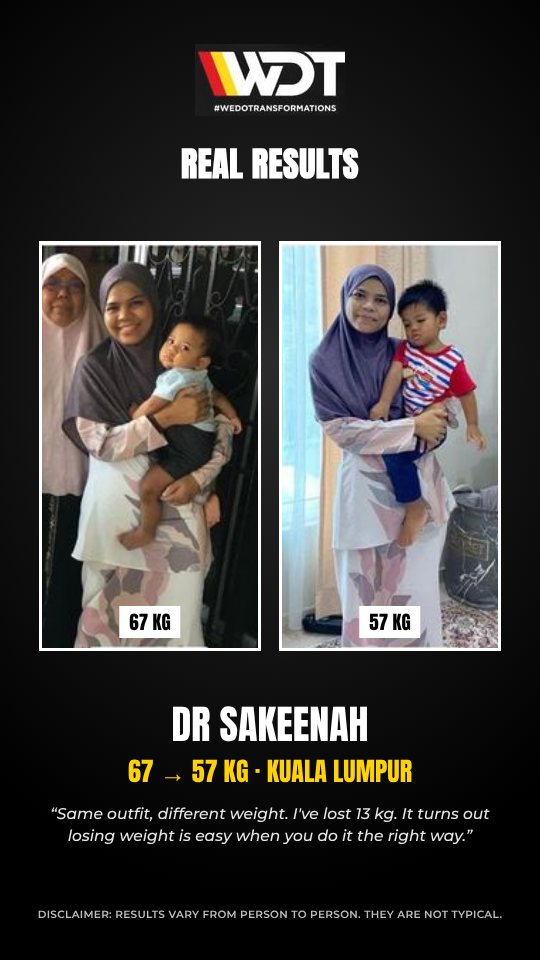
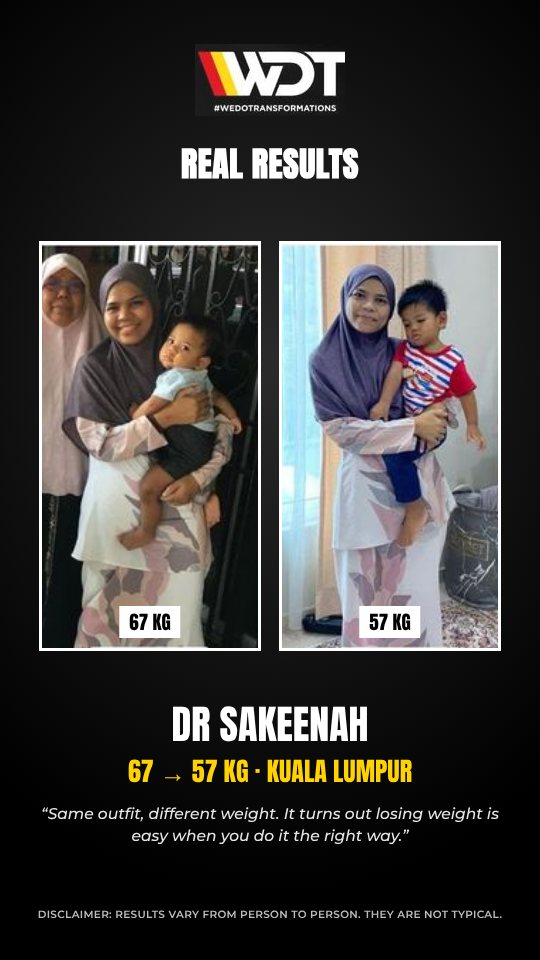
Kimi's answers: body assessment note + FAQ, what RM259 includes, 4 overseas posters with a label, Dr Sakeenah quote matches 67-57 kg, meal plan WhatsApp follow-up button, side-income link off the footer for now
Claude-Session: https://claude.ai/code/session_01V6y6QRNPJFxGjVSPrroyLb

Changed region(s): [[0.0889, 0.8438, 0.9185, 0.875]]

diff --git a/index.html b/index.html
@@ -339,6 +339,7 @@
       <div class="ticks-hero" data-t="heroTicks"></div>
       <div class="hero-ctas">
         <a class="big assess" target="_blank" rel="noopener"><span data-t="assessBtn"></span></a>
+        <p class="price-s" data-t="assessNote" style="opacity:.9;font-size:14px;margin-top:0;flex-basis:100%"></p>
         <a class="quiz-link" href="#kit" data-t="heroQuizLink"></a>
       </div>
       <p class="price-s" data-t="priceLine"></p>
@@ -478,6 +479,7 @@
           <a class="btn" id="c-pdf" target="_blank" rel="noopener"><span id="c-pdfBtn"></span></a>
           <p class="c-inapp" id="c-inapp" data-t="calInApp" hidden></p>
           <a class="c-rem" id="c-rem" target="_blank" rel="noopener" data-t="calRem"></a>
+          <a class="btn wa" id="c-wa" target="_blank" rel="noopener" style="font-size:15px;padding:13px 16px"></a>
           <p class="c-start" data-t="calStart"></p>
           <h3 class="c-h" data-t="calKitH"></h3>
           <ul class="c-kit" data-t="calKit"></ul>
@@ -600,7 +602,6 @@
     </div>
     <div class="links">
       <a id="web-foot" target="_blank" rel="noopener" data-t="webFoot"></a>
-      <a href="peluang.html" data-t="incomeFoot"></a>
     </div>
     <p class="fine" data-t="footFine"></p>
   </div>
@@ -626,12 +627,12 @@ const SRC = ((new URLSearchParams(location.search).get("src") || "").toLowerCase
    { id:"aina", name:"Aina, Gombak", result:"-4 kg", months:{en:"2 months",ms:"2 bulan"}, photo:"aina.jpg",
      quote:{en:"...", ms:"..."} } */
 // WDT team posters in img/wdt/NN.jpg (client name for the alt text)
-const WDT_RESULTS = [[1,"Sandra Saucedo"],[2,"Hernan Brito"],[3,"Sanjay Abraham"],[4,"Emilia Negru"],[5,"Ivaylo Hristov"],[6,"Andres Contreras"],[7,"Karina Ortiz"],[8,"Sturzu Constantin Daniel"],
-  [9,"Mihalcea Cornelia"],[10,"Rachel Romero"],[11,"Jazmine Fabro"],[12,"Denise Preston"],[13,"Rossi Perez"],[14,"Takeshi Taco"],[15,"Maria Ramirez Ramirez"],[16,"Everline Hoffmann"]];
+// overseas WDT coaches' 21-Day Challenge posters, shown after the Malaysian results (Kimi 13 Nov: keep 3-4)
+const WDT_RESULTS = [[9,"Mihalcea Cornelia"],[10,"Rachel Romero"],[16,"Everline Hoffmann"],[2,"Hernan Brito"]];
 
 const TESTIMONIALS = [
   { id:"sakeenah", name:"Dr Sakeenah, Kuala Lumpur", result:"67 → 57 kg", photo:"img/t-sakeenah.jpg",
-    quote:{ms:"Baju yang sama, berat yang berbeza. Saya dah turun 13 kg. Rupanya mudah turun berat dengan cara yang betul.",en:"Same outfit, different weight. I've lost 13 kg. It turns out losing weight is easy when you do it the right way."} },
+    quote:{ms:"Baju yang sama, berat yang berbeza. Rupanya mudah turun berat dengan cara yang betul.",en:"Same outfit, different weight. It turns out losing weight is easy when you do it the right way."} },
   { id:"eka", name:"Eka, Johor Bahru", result:"75 → 54 kg", photo:"img/t-eka.jpg",
     quote:{ms:"Saya turun 21 kg sambil makan nasi, brownies dan makan sedap.",en:"I lost 21 kg while still eating rice, brownies and good food."} },
   { id:"nurse", name:{ms:"Klien team",en:"Team client"}, result:"68 → 57 kg", months:{ms:"Okt 2024 → Sept 2025",en:"Oct 2024 → Sept 2025"}, photo:"img/t-nurse.jpg" },
@@ -680,6 +681,7 @@ const TXT = {
     h7L:["Waist","Ticks","Energy","Night hunger","Name","Plan"],
     resKalori:"Not ready to chat yet? Get the free meal plan first →",
     calRem:"📅 Set a Day 7 reminder in my calendar",
+    calWa:"💬 Want a coach to follow up for 7 days? WhatsApp %C →", calWaMsg:"Hi %C! I just got the free ~%K kcal meal plan (%G). Can you follow up with me for the next 7 days?", calWaG:["lose fat","gain weight"],
     calStart:"<b>Start today:</b> measure your waist (morning, before eating, at belly-button level) and write it on page 8. Measure again on Day 7.",
     calInApp:'Opened from TikTok/Instagram? If the PDF doesn\'t open, tap ⋯ at the top and choose "Open in browser".',
     calNextP2:"Your quiz result is ready. Pick a coach and WhatsApp for a free consultation.", calNextBtn2:"See my result →",
@@ -714,7 +716,7 @@ const TXT = {
     offLede:"Want online coaching from home, or a ladies-only class in person? Both work.",
     o1Tag:"Online · men &amp; women", o1H:"Online coaching",
     o1P:"For busy working adults who want a clear plan and a coach who checks in on them.",
-    o1List:"<li>1-to-1 and group coaching</li><li>Meal plan with normal food, including eating out</li><li>20-minute workouts you can do at home</li><li>A coach who follows up with you</li><li>Supplements included. Your plan is still built on normal food</li>",
+    o1List:"<li>1-to-1 and group coaching</li><li>Meal plan and workout plan built around your lifestyle</li><li>Normal food and eating out, 20-minute workouts at home</li><li>Accountability: a coach who keeps you on track</li><li>Supplements included. Your plan is still built on normal food</li>",
     investLabel:"Investment", o1Price:"From RM259 a month<small>supplements included</small>", o1Btn:"Start with the free body assessment →",
     o2Tag:"Ladies only · Coach Zara",
     o2P:"A small private workout class for women, max 12 per class, led by Coach Zara.",
@@ -725,6 +727,7 @@ const TXT = {
     investShort:"Programs start from RM259 a month, supplements included. Your coach will help you pick an option that fits your budget.",
     heroBtn:"Start the free quiz →",
     priceLine:"Programs start from RM259 a month, supplements included.",
+    assessNote:"Fill in a free form online, then Coach Kimi contacts you personally to explain your result. No pressure.",
     assessBtn:"Free Online Body Assessment →", heroQuizLink:"or try the free 7-Day Starter Kit (quiz + meal plan) ↓",
     waShort:"💬 WhatsApp us",
     stat1:"realistic first goal", stat2:"free quiz", stat3:"coaches, male and female",
@@ -749,19 +752,20 @@ const TXT = {
     zaraP1:"\"56 kg at 35 weeks pregnant, 47 kg 55 days after giving birth, by eating well and staying safely active.\"",
     zaraP2:"\"Prefer a female coach? I'm here.\"",
     coachNote:"Coaches' own journeys. Results vary from person to person.",
-    wdtH:"Results from our <em>coaching team</em>", wdtP:"Results from our clients and from the WeDoTransformations team of coaches. These are just some from this month, there are many more. Swipe to see them all →", wdtNote:"Results vary from person to person and are not typical.",
+    wdtH:"Results from our <em>coaching team</em>", wdtP:"The first 6 results are from Malaysia. The last 4 are 21-Day Challenge results from WeDoTransformations coaches overseas. Swipe to see them all →", wdtNote:"Results vary from person to person and are not typical.",
     testiEyebrow:"Real results",
     testiH:"Our team's clients",
     testiNote:"Results from clients of our coaching team. Results are not typical and vary from person to person.",
     webFoot:"Free online body assessment", incomeFoot:"Side income opportunity (in Malay)",
     faqH:"Questions people ask",
     faq:[
+      ["What is the free online body assessment?","You fill in a form online on the WeDoTransformations page (it opens in a new tab). Then Coach Kimi contacts you personally to explain where your body is now and what to fix first. It's free, and there's no pressure to join. Programs start from RM259 a month, supplements included."],
       ["Why start with 3 to 5 kg?","Because it's realistic. A small first goal is easier to reach while working full time, and once you see it happen it's much easier to keep going."],
       ["How long does it take to lose 3 to 5 kg?","It depends on your starting point and your routine. A healthy pace is usually around 0.5 to 1 kg a week. We'll give you an honest estimate on the call. Results vary."],
       ["I'm really busy. Do I need the gym?","No. The workouts are about 20 minutes and can be done at home."],
       ["Do I have to stop eating rice or eating out?","No. The plans are built around normal Malaysian food and eating out. You'll learn what to pick, not what to give up forever."],
       ["Can I have a female coach?","Yes. Coach Zara coaches women. Pick \"Female coach\" on your result page."],
-      ["How much does coaching cost?","Packages start from RM259 for one month, supplements included. There are longer, fuller packages too. On WhatsApp, your coach will help you pick the one that fits your goal and budget."],
+      ["How much does coaching cost?","Packages start from RM259 for one month. That includes supplements, 1-to-1 coaching, group coaching, accountability (a coach who keeps you on track), and a meal plan and workout plan built around your lifestyle. There are longer, fuller packages too. On WhatsApp, your coach will help you pick the one that fits your goal and budget."],
       ["I want to gain weight. Can you help?","Yes. In the <a href='#kalori'>calculator</a>, pick \"Gain weight\" for a free meal plan to gain weight without gaining excess fat (1,500-3,000 kcal). We coach weight gain too: programs start from RM259 a month, supplements included. Losing weight without trying? See a doctor first."],
       ["Are supplements part of the program?","Yes. Every online coaching package includes supplements at no extra cost. The RM259 package includes a nutrition shake, and bigger packages add more products. Your plan is still built on normal Malaysian food. Pregnant, breastfeeding, on medication or have a health condition? Tell your coach and check with your doctor first. Want to know what's in each package? Ask a coach on WhatsApp."]
     ],
@@ -847,6 +851,7 @@ const TXT = {
     h7L:["Pinggang","Tick","Tenaga","Lapar malam","Nama","Pelan"],
     resKalori:"Belum sedia nak chat? Ambil meal plan percuma dulu →",
     calRem:"📅 Set peringatan Hari 7 di kalendar",
+    calWa:"💬 Nak coach follow-up 7 hari? WhatsApp %C →", calWaMsg:"Hi %C! Saya baru ambil meal plan percuma ~%K kcal (%G). Boleh follow-up saya 7 hari ni?", calWaG:["turun lemak","naik berat"],
     calStart:"<b>Mula hari ni:</b> ukur pinggang (pagi, sebelum makan, paras pusat) dan tulis di muka surat 8. Hari 7 nanti ukur lagi.",
     calInApp:'Buka dari TikTok/Instagram? Kalau PDF tak keluar, tekan ⋯ di atas dan pilih "Buka dalam browser".',
     calNextP2:"Result kuiz anda dah siap. Pilih coach dan WhatsApp untuk consultation percuma.", calNextBtn2:"Lihat result saya →",
@@ -881,7 +886,7 @@ const TXT = {
     offLede:"Nak coaching online dari rumah, atau kelas wanita sahaja secara bersemuka? Dua-dua boleh.",
     o1Tag:"Online · lelaki &amp; wanita", o1H:"Coaching online",
     o1P:"Untuk orang bekerja yang sibuk dan nak pelan yang jelas, dengan coach yang follow-up.",
-    o1List:"<li>Coaching 1-1 dan berkumpulan</li><li>Meal plan makanan biasa, termasuk makan di luar</li><li>Senaman 20 minit, boleh buat di rumah</li><li>Coach yang follow-up anda</li><li>Supplement disertakan. Pelan anda tetap berasaskan makanan biasa</li>",
+    o1List:"<li>Coaching 1-1 dan berkumpulan</li><li>Meal plan dan workout plan ikut gaya hidup anda</li><li>Makanan biasa dan makan di luar, senaman 20 minit di rumah</li><li>Accountability: coach yang pantau progress anda</li><li>Supplement disertakan. Pelan anda tetap berasaskan makanan biasa</li>",
     investLabel:"Pelaburan", o1Price:"Dari RM259 sebulan<small>termasuk supplement</small>", o1Btn:"Mula dengan body assessment percuma →",
     o2Tag:"Wanita sahaja · Coach Zara",
     o2P:"Kelas senaman private untuk wanita, maksimum 12 orang sekelas, bersama Coach Zara.",
@@ -892,6 +897,7 @@ const TXT = {
     investShort:"Program bermula dari RM259 sebulan, termasuk supplement. Coach akan bantu pilih pakej ikut bajet anda.",
     heroBtn:"Mula kuiz percuma →",
     priceLine:"Program bermula dari RM259 sebulan, termasuk supplement.",
+    assessNote:"Isi borang online percuma, lepas tu Coach Kimi sendiri akan hubungi anda untuk terangkan result. Tiada paksaan.",
     assessBtn:"Online Body Assessment PERCUMA →", heroQuizLink:"atau cuba Kit Mula 7 Hari percuma (kuiz + meal plan) ↓",
     waShort:"💬 WhatsApp kami",
     stat1:"matlamat pertama yang realistik", stat2:"kuiz percuma", stat3:"coach, lelaki dan perempuan",
@@ -916,19 +922,20 @@ const TXT = {
     zaraP1:"\"56 kg masa mengandung 35 minggu, 47 kg 55 hari selepas bersalin, dengan makan betul dan aktif secara selamat.\"",
     zaraP2:"\"Lebih selesa dengan coach perempuan? Saya ada.\"",
     coachNote:"Perjalanan coach sendiri. Result berbeza mengikut individu.",
-    wdtH:"Result team <em>coach kami</em>", wdtP:"Result klien kami dan team coach WeDoTransformations. Ini sebahagian dari bulan ini sahaja, ada banyak lagi. Leret untuk tengok semua →", wdtNote:"Result berbeza mengikut individu dan tidak tipikal.",
+    wdtH:"Result team <em>coach kami</em>", wdtP:"6 result pertama dari Malaysia. 4 terakhir ialah result Cabaran 21 Hari dari coach WeDoTransformations di luar negara. Leret untuk tengok semua →", wdtNote:"Result berbeza mengikut individu dan tidak tipikal.",
     testiEyebrow:"Result sebenar",
     testiH:"Klien team kami",
     testiNote:"Result klien team coaching kami. Result tidak tipikal dan berbeza mengikut individu.",
     webFoot:"Online body assessment percuma", incomeFoot:"Peluang pendapatan sampingan",
     faqH:"Soalan yang selalu ditanya",
     faq:[
+      ["Apa itu online body assessment percuma?","Anda isi borang online di page WeDoTransformations (dibuka di tab baru). Lepas tu Coach Kimi sendiri akan hubungi anda untuk terangkan keadaan badan anda sekarang dan apa yang perlu dibaiki dulu. Percuma, dan tiada paksaan untuk join. Program bermula dari RM259 sebulan, termasuk supplement."],
       ["Kenapa mula dengan 3 hingga 5 kg?","Sebab ia realistik. Matlamat kecil lebih senang dicapai walaupun kerja sepenuh masa, dan bila dah nampak hasil, lebih senang nak teruskan."],
       ["Berapa lama nak turun 3 hingga 5 kg?","Bergantung pada titik mula dan rutin anda. Kadar yang sihat biasanya lebih kurang 0.5 hingga 1 kg seminggu. Kami bagi anggaran yang jujur dalam call nanti. Result berbeza mengikut individu."],
       ["Saya sangat sibuk. Kena pergi gym ke?","Tak perlu. Senaman lebih kurang 20 minit dan boleh buat di rumah."],
       ["Kena berhenti makan nasi atau makan di luar ke?","Tak perlu. Pelan dibina ikut makanan Malaysia biasa dan makan di luar. Anda belajar apa nak pilih, bukan apa nak tinggal selama-lamanya."],
       ["Boleh dapat coach perempuan?","Boleh. Coach Zara coach wanita. Pilih \"Coach perempuan\" di halaman result."],
-      ["Berapa kos coaching?","Pakej bermula dari RM259 untuk sebulan, termasuk supplement. Ada juga pakej yang lebih panjang dan lebih lengkap. Di WhatsApp, coach akan bantu pilih pakej yang sesuai dengan matlamat dan bajet anda."],
+      ["Berapa kos coaching?","Pakej bermula dari RM259 untuk sebulan. Termasuk supplement, coaching 1-1, coaching berkumpulan, accountability (coach pantau progress anda), dan meal plan serta workout plan ikut gaya hidup anda. Ada juga pakej yang lebih panjang dan lebih lengkap. Di WhatsApp, coach akan bantu pilih pakej yang sesuai dengan matlamat dan bajet anda."],
       ["Saya nak naik berat. Boleh tolong?","Boleh. Dalam <a href='#kalori'>kalkulator</a>, pilih \"Naik berat\" untuk meal plan percuma naik berat tanpa naik lemak berlebihan (1,500-3,000 kcal). Kami juga ada coaching naik berat: program bermula dari RM259 sebulan, termasuk supplement. Berat turun tanpa sebab? Jumpa doktor dulu."],
       ["Program ni ada supplement ke?","Ada. Harga setiap pakej coaching online dah termasuk supplement, tiada caj tambahan. Pakej RM259 termasuk shake nutrisi, dan pakej lebih besar ada produk tambahan. Pelan anda tetap berasaskan makanan Malaysia biasa. Mengandung, menyusu, ambil ubat atau ada masalah kesihatan? Beritahu coach dan tanya doktor dulu. Nak tahu apa dalam setiap pakej? Tanya coach di WhatsApp."]
     ],
@@ -1326,6 +1333,11 @@ function runCalc(){
   $("c-inapp").hidden = !/TikTok|musical_ly|Bytedance|Instagram|FBAN|FBAV/i.test(navigator.userAgent);
   $("c-pdf").onclick = gain ? ()=>logTap({type:"quiz", via:"Weight gain PDF", src:SRC, result:tier+" kcal"})
     : ()=>{ kitSave({p:tier}); kitMark("m"); logTap({type:"quiz", via:"Meal plan PDF", src:SRC, result:tier+" kcal"}); };
+  // coach follow-up: the coach picked in the quiz, else by the sex entered here
+  const cw = CONFIG.coaches[coach || kitGet().c || calc.sex] || CONFIG.coaches.m, fill = t => t.replace("%C", cw.name).replace("%K", (+tier).toLocaleString()).replace("%G", T.calWaG[gain ? 1 : 0]);
+  $("c-wa").textContent = fill(T.calWa);
+  $("c-wa").href = `https://wa.me/${cw.whatsapp}?text=${encodeURIComponent(fill(T.calWaMsg))}`;
+  $("c-wa").onclick = ()=>logTap({type:"quiz", via:"Meal plan WhatsApp", src:SRC, result:tier+" kcal", coach:cw.name});
   calNext();
   $("c-out").hidden = false;
 }
